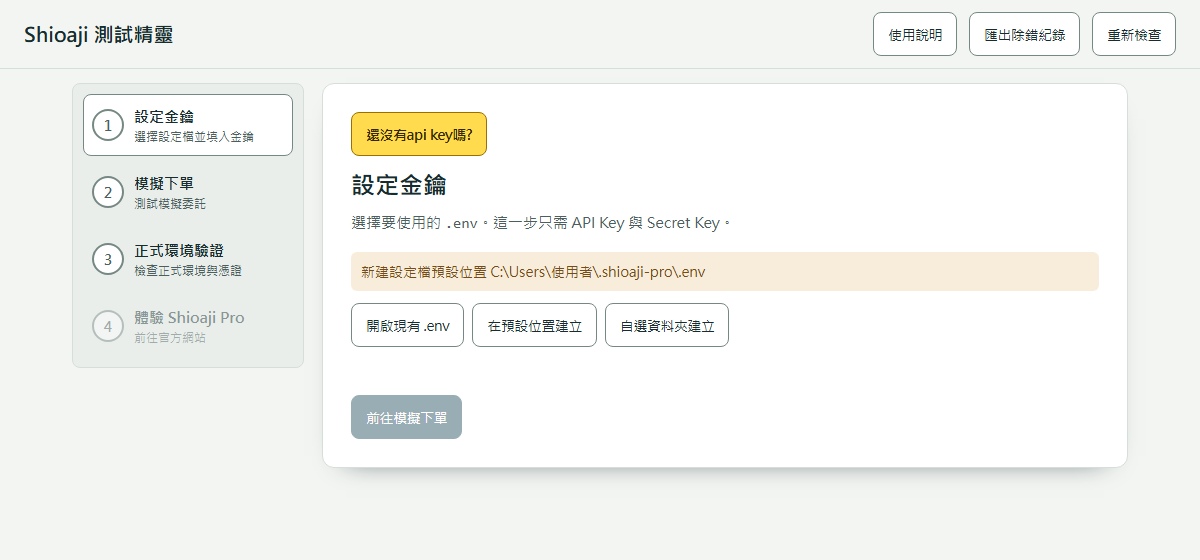
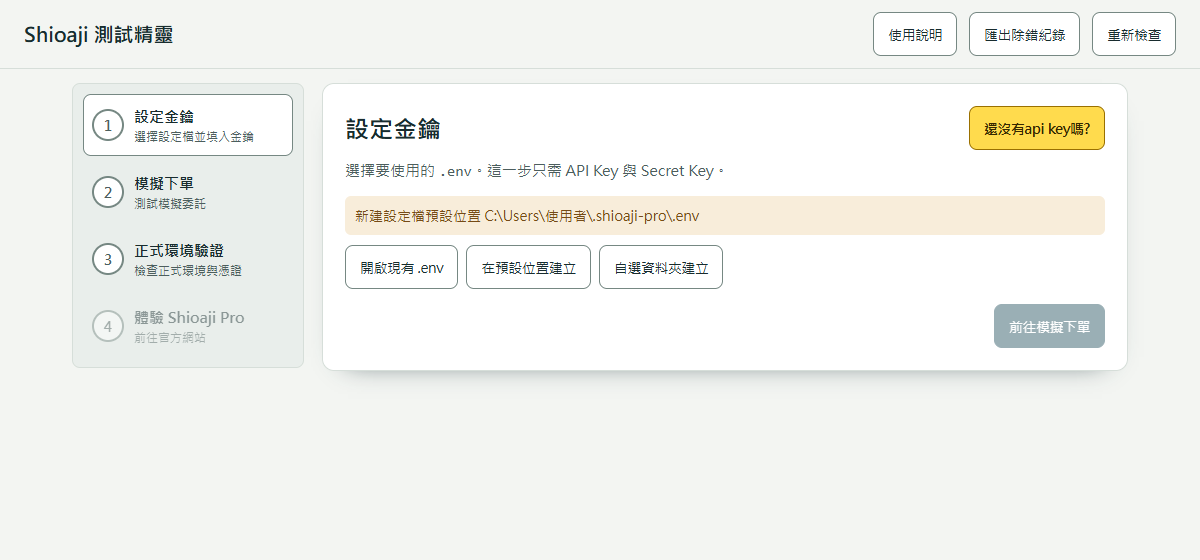
驗證完整檢核報告與 macOS 桌面啟動流程

diff --git a/tools/build_macos.py b/tools/build_macos.py
@@ -9,6 +9,7 @@ import os
 import platform
 import plistlib
 import shutil
+import signal
 import socket
 import subprocess
 import sys
@@ -128,7 +129,6 @@ def verify_app(app: Path, version: str, temp: Path) -> None:
         subprocess.Popen(
             [
                 str(installed / "Contents/MacOS" / APP_EXECUTABLE),
-                "--no-shell",
                 "--port",
                 str(port),
                 "--root",
@@ -154,12 +154,19 @@ def verify_app(app: Path, version: str, temp: Path) -> None:
                 except (OSError, urllib.error.URLError):
                     time.sleep(0.2)
                     continue
-                if state["platform"] == "darwin" and state["version"] == version and "設定金鑰" in page:
+                browser_args = run("/bin/ps", "-ax", "-o", "command=", cwd=data)
+                if (
+                    state["platform"] == "darwin"
+                    and state["version"] == version
+                    and "設定金鑰" in page
+                    and f"--app=http://127.0.0.1:{port}/" in browser_args
+                ):
+                    verify_picker(python, data, env)
                     print(
-                        f"macOS verify PASS：{platform.machine()}、DMG、Launcher、首頁／狀態、Shioaji {sdk}"
+                        f"macOS verify PASS：{platform.machine()}、DMG、桌面視窗啟動、原生選檔、Shioaji {sdk}"
                     )
                     return
-                break
+                time.sleep(0.2)
             raise RuntimeError(
                 "內嵌 App 啟動驗證失敗：\n" + log.read_text(encoding="utf-8", errors="replace")
             )
@@ -170,6 +177,34 @@ def verify_app(app: Path, version: str, temp: Path) -> None:
                     proc.wait(timeout=5)
                 if proc.poll() is None:
                     proc.kill()
+
+
+def verify_picker(python: Path, data: Path, env: dict[str, str]) -> None:
+    """實際進入原生選檔對話框。CI 結束對話框的行程，避免等候人工選檔。"""
+    command = [
+        str(python),
+        "-c",
+        "from pathlib import Path; from shioaji_wizard.server import _show_native_picker; "
+        "_show_native_picker(Path.cwd(), 'settings')",
+    ]
+    with subprocess.Popen(
+        command, env=env, cwd=data, start_new_session=True, stdout=subprocess.PIPE, stderr=subprocess.PIPE
+    ) as picker:
+        try:
+            _, stderr = picker.communicate(timeout=4)
+        except subprocess.TimeoutExpired:
+            # JXA 的 runModal 阻塞表示已進入對話框；一併收掉 Python 和 osascript。
+            stop_group = os.killpg  # ty: ignore[unresolved-attribute] — 僅在 Darwin 驗收。
+            with contextlib.suppress(ProcessLookupError):
+                stop_group(picker.pid, signal.SIGTERM)
+            try:
+                picker.communicate(timeout=5)
+            except subprocess.TimeoutExpired:
+                with contextlib.suppress(ProcessLookupError):
+                    stop_group(picker.pid, signal.SIGKILL)  # ty: ignore[unresolved-attribute]
+                picker.communicate()
+        else:
+            raise RuntimeError(f"macOS 選檔未停留在選擇視窗：{stderr.decode(errors='replace')}")
 
 
 def build(dist: Path, *, verify: bool) -> Path:

diff --git a/tests/test_server.py b/tests/test_server.py
@@ -721,16 +721,24 @@ def test_passed_steps_survive_other_tests_and_are_invalidated_by_settings(
         "/api/env",
         json={"api_key": FAKE_KEY, "sec_key": FAKE_SEC, "ca_passwd": "fake", "ca_path": str(pfx)},
     )
-    for module, checks in (("fixture_a", ("A1", "A3")), ("fixture_b", ("B1", "B5", "B6"))):
+    for module, checks in (
+        ("fixture_a", ("PASS", "PASS", "PASS", "SKIP", "SKIP", "SKIP", "SKIP")),
+        ("fixture_b", ("PASS", "PASS", "SKIP", "PASS", "PASS", "PASS", "SKIP")),
+    ):
         (tmp_path / f"{module}.py").write_text(
             "from shioaji_wizard.sjenv import Report\n"
             "report = Report()\n"
-            f"for code in {checks!r}:\n    report.add(code + ' fixture', 'PASS')\n",
+            "import sys\n"
+            f"for i, status in enumerate({checks!r}, 1):\n"
+            f"    report.add('{module[-1].upper()}' + str(i) + ' fixture', status)\n"
+            "if '--intl' in sys.argv:\n    report.add('A7 duplicate', 'PASS')\n",
             encoding="utf-8",
         )
     monkeypatch.setenv("PYTHONPATH", str(tmp_path))
     run_job = server._run_job
-    monkeypatch.setattr(server, "_run_job", lambda job, module, args: run_job(job, f"fixture_{job.kind}", []))
+    monkeypatch.setattr(
+        server, "_run_job", lambda job, module, args: run_job(job, f"fixture_{job.kind}", args)
+    )
 
     for kind, expected in (("a", ["a"]), ("b", ["a", "b"])):
         assert client.post("/api/run", json={"kind": kind}).status_code == 200
@@ -742,6 +750,12 @@ def test_passed_steps_survive_other_tests_and_are_invalidated_by_settings(
     assert client.post("/api/env", json={"ca_passwd": "changed"}).status_code == 200
     assert client.get("/api/state").json()["passed_steps"] == ["a"]
     assert client.post("/api/env", json={"api_key": "x" * 44, "unlock_keys": True}).status_code == 200
+    assert client.get("/api/state").json()["passed_steps"] == []
+    assert client.post("/api/run", json={"kind": "a", "futures": True}).status_code == 200
+    _wait_job_done(server)
+    assert client.get("/api/state").json()["passed_steps"] == []
+    assert client.post("/api/run", json={"kind": "a", "intl": True}).status_code == 200
+    _wait_job_done(server)
     assert client.get("/api/state").json()["passed_steps"] == []
 
 

diff --git a/src/shioaji_wizard/test_ca.py b/src/shioaji_wizard/test_ca.py
@@ -137,7 +137,11 @@ def classify_ca_expirations(expirations: list[datetime], now: datetime) -> tuple
         return FAIL, f"憑證已於 {tw_date(earliest)} 過期，請到 API 管理頁重新下載", ""
     if left < 30:
         when = "剩不到 1 天" if left == 0 else f"{left} 天後"
-        return PASS, f"憑證 {when}（{tw_date(earliest)}）到期，建議儘早到 API 管理頁重新下載", "certificate_expiring"
+        return (
+            PASS,
+            f"憑證 {when}（{tw_date(earliest)}）到期，建議儘早到 API 管理頁重新下載",
+            "certificate_expiring",
+        )
     return PASS, f"到期日 {tw_date(earliest)}（剩 {left} 天）", ""
 
 

diff --git a/src/shioaji_wizard/shell.py b/src/shioaji_wizard/shell.py
@@ -280,6 +280,9 @@ def resolve_window(
     認列前於 handle 開啟後**複查指紋**（消除快照→OpenProcess 間的 PID 重用
     窗口）。``timeout`` 秒內無法認列（或末階 fallback 無 profile、``abort``
     成立）→ 回 None，``desktop`` 退回心跳閒置逾時機制。"""
+    if sys.platform == "darwin":
+        # macOS 的瀏覽器行程不走 Windows CIM／handle，直接由頁面心跳判斷。
+        return None
     if result.mode != "app" or result.profile_dir is None or result.browser is None:
         return None
     launcher = result.process

diff --git a/tests/test_diagnostics.py b/tests/test_diagnostics.py
@@ -220,7 +220,9 @@ def test_ca_expiry_date_is_shown_in_taiwan_time_not_utc():
 
     assert test_ca.tw_date(utc_expiry) == "2028-08-22"
     assert test_ca.tw_date(datetime(2028, 8, 22, 7, 0)) == "2028-08-22"  # naive：原樣
-    _status, reason, _warning = test_ca.classify_ca_expirations([utc_expiry], datetime(2028, 8, 22, 0, tzinfo=UTC))
+    _status, reason, _warning = test_ca.classify_ca_expirations(
+        [utc_expiry], datetime(2028, 8, 22, 0, tzinfo=UTC)
+    )
     assert "2028-08-22" in reason and "過期" in reason
 
 

diff --git a/tests/test_certinfo.py b/tests/test_certinfo.py
@@ -133,7 +133,9 @@ def test_expired_certificate_is_still_readable_and_classified_as_fail(tmp_path: 
     info = certinfo.read_pfx_info(pfx, "correct-pw-1234")
 
     assert info.not_after < datetime.now(UTC)
-    status, reason, _warning = test_ca.classify_ca_expirations([info.not_after], datetime.now(info.not_after.tzinfo))
+    status, reason, _warning = test_ca.classify_ca_expirations(
+        [info.not_after], datetime.now(info.not_after.tzinfo)
+    )
     assert status == "FAIL"
     assert "過期" in reason
 
